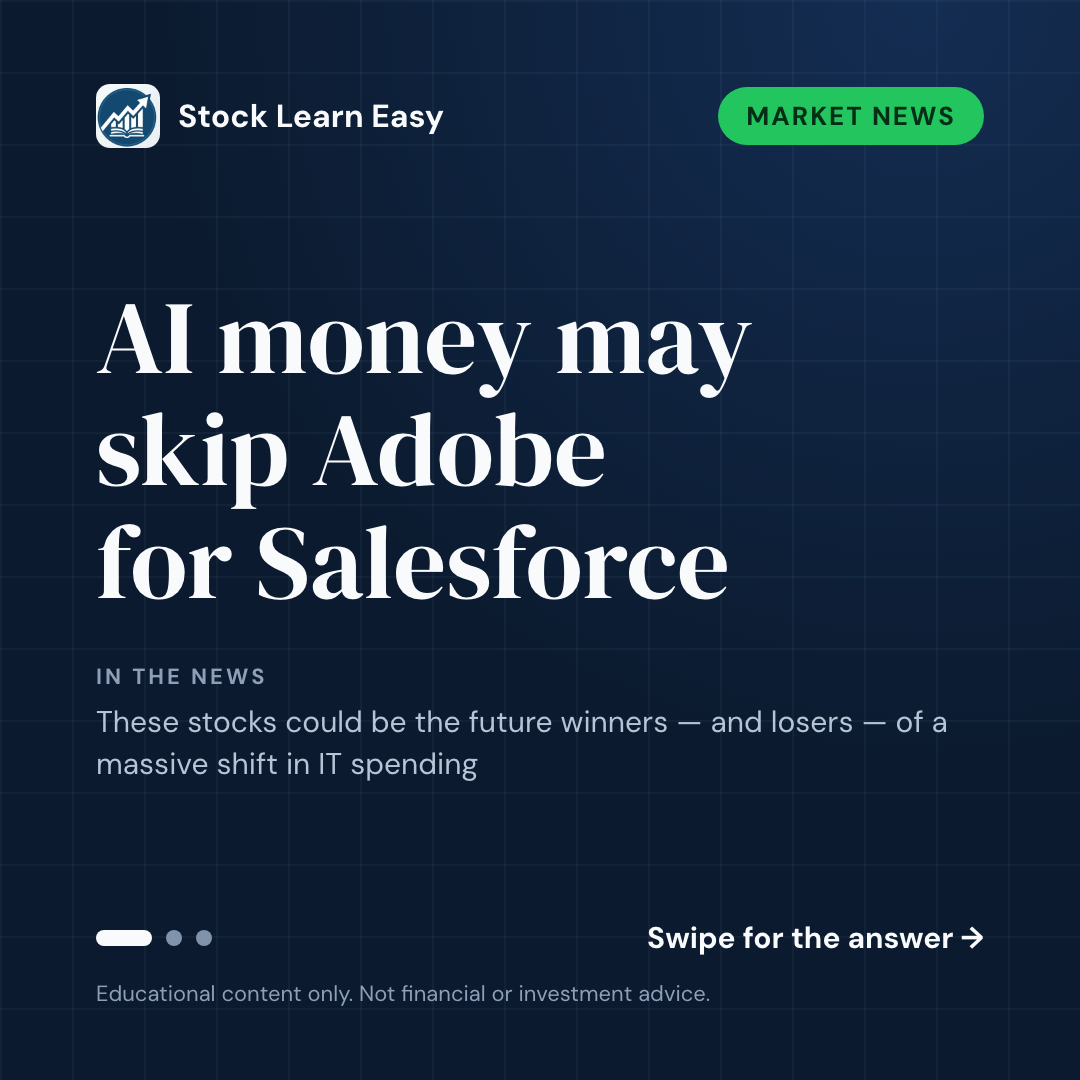
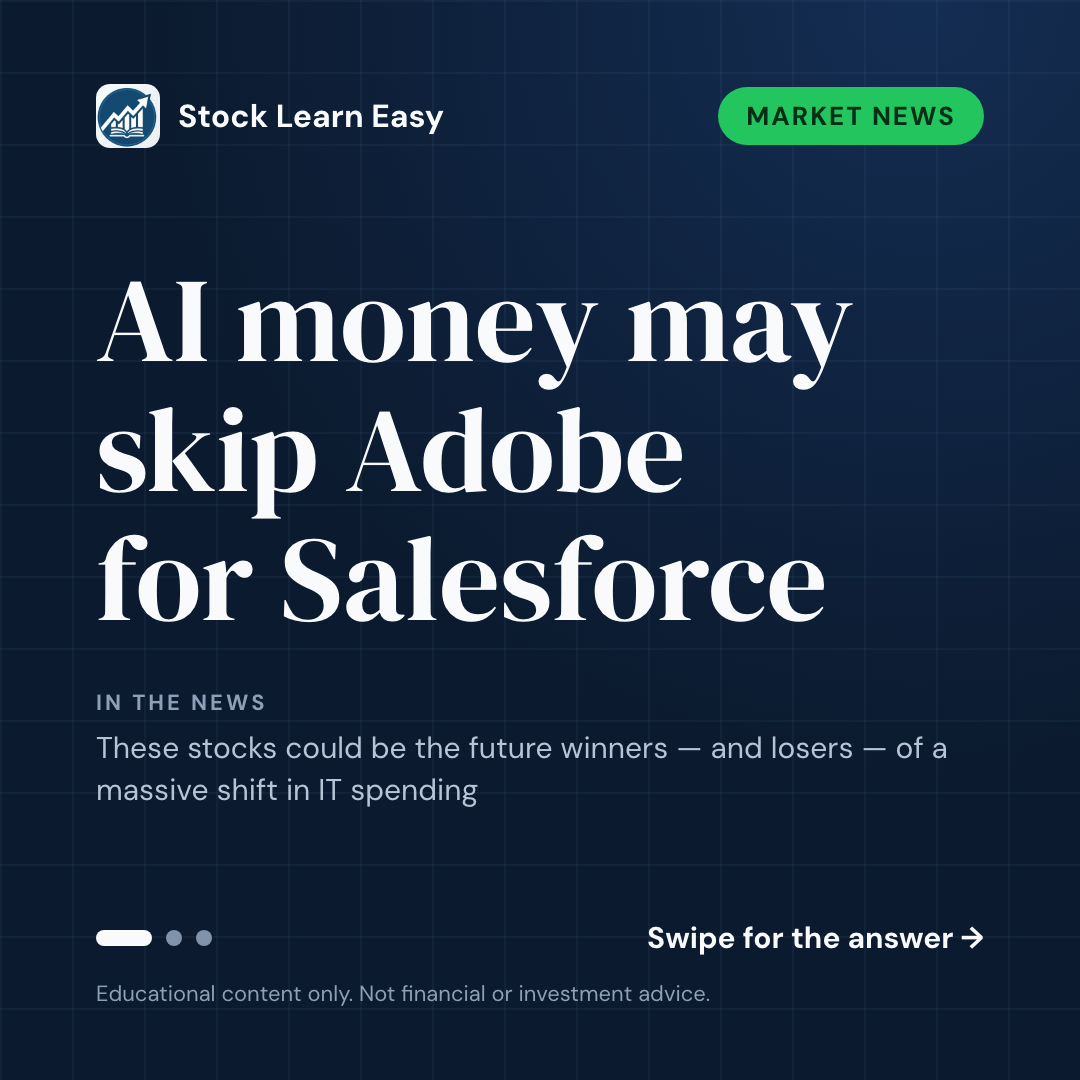
Items 42 and 43: bigger hook type, thumbnail-size gate on slide one with compact fallback; queue rebuilt

Changed region(s): [[0.0917, 0.2444, 0.7944, 0.5806], [0.0917, 0.6111, 0.7944, 0.7639], [0.825, 0.6417, 0.8861, 0.7028]]

diff --git a/generate.py b/generate.py
@@ -59,7 +59,7 @@ CHROME = "/Applications/Google Chrome.app/Contents/MacOS/Google Chrome"
 # this is what says which change the week was testing. Update it when the
 # generator's rules change, not when the code is merely refactored.
 BACKLOG_ITEMS = [6, 7, 15, 17, 21, 22, 23, 24, 25, 26, 27, 28, 29, 30, 31,
-                 33, 34, 35, 36, 37, 38, 16, 84, 95, 13, 14, 46]
+                 33, 34, 35, 36, 37, 38, 16, 84, 95, 13, 14, 46, 42, 43]
 
 # MarketWatch’s feeds mix in personal-advice columns ("The Moneyist",
 # written by Quentin Fottrell) that have nothing to do with markets.
@@ -891,7 +891,7 @@ def chart_body_html(chart, svg_width=888, svg_height=372, scale=1.0):
 
 
 def render_slide_html(kind, position, total, category, when_utc, copy,
-                      news=None, term=None, ticker=None, chart=None):
+                      news=None, term=None, ticker=None, chart=None, compact=False):
     """Render one carousel slide.
 
     Each slide has to earn its swipe. Before 28.9.2026 slide 2 reprinted the
@@ -901,10 +901,10 @@ def render_slide_html(kind, position, total, category, when_utc, copy,
     head = _card_head(category)
 
     if kind == "hook" and wants_plain_hook(when_utc):
-        hook_px = design.size_for(copy["hook"], [(40, 120), (58, 108), (72, 98), (999, 86)])
+        hook_px = design.size_for(copy["hook"], [(40, 124), (58, 112), (72, 100), (999, 92)])
         main = (
             '<div class="main" data-fit-box style="justify-content:center;">'
-            f'<div class="serif" data-fit="60" style="font-size:{hook_px}px;line-height:1.08;">'
+            f'<div class="serif" data-hook data-fit="60" style="font-size:{hook_px}px;line-height:1.08;">'
             f'{design.highlight_numbers(copy["hook"])}</div>'
             '</div>'
         )
@@ -916,19 +916,25 @@ def render_slide_html(kind, position, total, category, when_utc, copy,
     if kind == "hook":
         source = term[0] if category == "term" else news["title"]
         source_label = "TODAY'S TERM" if category == "term" else "IN THE NEWS"
-        hook_px = design.size_for(copy["hook"], [(40, 104), (58, 94), (72, 86), (999, 76)])
+        # Item 42, 13.10.2026: was 104/94/86/76. Most impressions of slide one
+        # are a thumbnail around 150px wide, where 76px type is 10px and the
+        # hook stops reading. The thumbnail gate below holds the floor.
+        hook_px = design.size_for(copy["hook"], [(40, 120), (58, 108), (72, 98), (999, 90)])
         ticker_html = (
             f'<span class="num" style="color:{design.TEXT};font-weight:700;margin-left:14px;">'
             f'${escape(ticker)}</span>' if ticker else ""
         )
         main = (
             '<div class="main" data-fit-box style="gap:44px;">'
-            f'<div class="serif" data-fit="56" style="font-size:{hook_px}px;line-height:1.08;">'
+            f'<div class="serif" data-hook data-fit="56" style="font-size:{hook_px}px;line-height:1.08;">'
             f'{design.highlight_numbers(copy["hook"])}</div>'
             '<div style="display:flex;flex-direction:column;gap:10px;">'
             f'<div class="eyebrow faint" style="font-size:22px;">{source_label}{ticker_html}</div>'
-            f'<div class="muted" style="font-size:30px;line-height:1.4;">{escape(source)}</div>'
-            '</div></div>'
+            # compact: the source headline is the first thing given up when
+            # the hook would otherwise be squeezed below thumbnail size.
+            + ('' if compact else
+               f'<div class="muted" style="font-size:30px;line-height:1.4;">{escape(source)}</div>')
+            + '</div></div>'
         )
         foot = _card_foot(position, total, "Swipe for the answer →")
     elif kind == "chart":
@@ -981,6 +987,68 @@ def render_slide_html(kind, position, total, category, when_utc, copy,
 
     return design.page(CARD_SIZE, CARD_SIZE, CARD_PADDING,
                        f'{head}{main}{foot}')
+
+# Item 43. Slide one is mostly seen as a thumbnail about 150px wide, so the
+# hook has to clear a type size at that scale, not at 1080. 12px there is
+# roughly the smallest size a serif headline still reads at a glance.
+THUMB_WIDTH = 150
+THUMB_MIN_HOOK_PX = 12.0
+_FINAL_PX = re.compile(r'data-hook[^>]*data-final-px="([\d.]+)"|data-final-px="([\d.]+)"[^>]*data-hook')
+
+
+def hook_thumb_px(html_path: Path):
+    """The hook's font size after the fit script has run, at thumbnail scale.
+
+    The fit script can shrink a long hook to its floor, so the size in the
+    Python tiers is not the size that ships; this reads the real one back out
+    of the settled DOM. None if it cannot be measured.
+    """
+    html_path = html_path.resolve()
+    out = subprocess.run(
+        [CHROME, "--headless", "--disable-gpu", "--virtual-time-budget=5000",
+         "--window-size=1080,1080", "--dump-dom", f"file://{html_path}"],
+        capture_output=True, text=True, timeout=30,
+    ).stdout
+    m = _FINAL_PX.search(out)
+    if not m:
+        return None
+    return round(float(m.group(1) or m.group(2)) * THUMB_WIDTH / CARD_SIZE, 1)
+
+
+def render_slides(out_dir: Path, plan, category, slot, copy,
+                  news=None, term=None, ticker=None, chart=None):
+    """Render every slide of a slot. Returns the hook's thumbnail size in px.
+
+    The hook slide is gated (item 43): if the hook lands under
+    THUMB_MIN_HOOK_PX at thumbnail scale it is re-rendered without the source
+    headline, which hands its space to the hook. An 8-word hook that still
+    misses after that ships with a warning rather than costing the slot.
+    """
+    thumb_px = None
+    for position, kind in enumerate(plan, start=1):
+        html_path = out_dir / f"card_{position}.html"
+
+        def write(compact=False):
+            html_path.write_text(
+                render_slide_html(kind, position, len(plan), category, slot, copy,
+                                  news=news, term=term, ticker=ticker, chart=chart,
+                                  compact=compact),
+                encoding="utf-8",
+            )
+
+        write()
+        if kind == "hook":
+            thumb_px = hook_thumb_px(html_path)
+            if thumb_px is not None and thumb_px < THUMB_MIN_HOOK_PX:
+                write(compact=True)
+                thumb_px = hook_thumb_px(html_path)
+                if thumb_px is not None and thumb_px < THUMB_MIN_HOOK_PX:
+                    print(f"WARNING: hook is {thumb_px}px at thumbnail size, "
+                          f"under {THUMB_MIN_HOOK_PX}: {copy['hook']!r}", file=sys.stderr)
+        render_png(html_path, out_dir / f"post_{position}.png")
+        html_path.unlink()
+    return thumb_px
+
 
 def render_png(html_path: Path, png_path: Path):
     """Render html_path to png_path via headless Chrome, then verify the
@@ -1192,15 +1260,8 @@ def main():
             chart = resolve_chart(category, news=news, ticker=ticker, term=term)
             plan = build_slide_plan(chart, slot)
 
-            for position, kind in enumerate(plan, start=1):
-                html_path = out_dir / f"card_{position}.html"
-                html_path.write_text(
-                    render_slide_html(kind, position, len(plan), category, slot, copy,
-                                      news=news, term=term, ticker=ticker, chart=chart),
-                    encoding="utf-8",
-                )
-                render_png(html_path, out_dir / f"post_{position}.png")
-                html_path.unlink()
+            thumb_px = render_slides(out_dir, plan, category, slot, copy,
+                                     news=news, term=term, ticker=ticker, chart=chart)
 
             (out_dir / "caption.txt").write_text(
                 make_caption(category, copy, news=news, term=term, ticker=ticker, slot=slot), encoding="utf-8"
@@ -1219,6 +1280,7 @@ def main():
                 # rule or the luck, and no way to reproduce it.
                 "backlog_items": BACKLOG_ITEMS,
                 "variant": post_variant(slot, chart),
+                "thumb_hook_px": thumb_px,
                 "copy_prompt": copy_prompt,
             }
             (out_dir / "source.json").write_text(
@@ -1314,15 +1376,8 @@ def rebuild_slot(slot_dir: Path):
 
     for old in slot_dir.glob("post_*.png"):
         old.unlink()
-    for position, kind in enumerate(plan, start=1):
-        html_path = slot_dir / f"card_{position}.html"
-        html_path.write_text(
-            render_slide_html(kind, position, len(plan), category, slot, copy,
-                              news=news, term=term, ticker=ticker, chart=chart),
-            encoding="utf-8",
-        )
-        render_png(html_path, slot_dir / f"post_{position}.png")
-        html_path.unlink()
+    thumb_px = render_slides(slot_dir, plan, category, slot, copy,
+                             news=news, term=term, ticker=ticker, chart=chart)
 
     # The caption is a pure function of the stored copy, so rebuild it too;
     # otherwise a caption change only reaches posts queued after it.
@@ -1333,6 +1388,7 @@ def rebuild_slot(slot_dir: Path):
     data["slides"] = plan
     data["chart"] = chart_summary(chart)
     data["variant"] = post_variant(slot, chart)
+    data["thumb_hook_px"] = thumb_px
     (slot_dir / "source.json").write_text(
         json.dumps(data, ensure_ascii=False, indent=2), encoding="utf-8"
     )

diff --git a/design.py b/design.py
@@ -140,6 +140,8 @@ FIT_JS = """
              && size > min && guard++ < 80) {
         size -= 2; el.style.fontSize = size + 'px';
       }
+      // Read back by the thumbnail gate in generate.py (item 43).
+      el.setAttribute('data-final-px', size);
     });
   }
   if (document.fonts && document.fonts.ready) { document.fonts.ready.then(fit); }

diff --git a/metrics/winners.md b/metrics/winners.md
@@ -1,22 +1,24 @@
 # Above-median posts (backlog item 19)
 
-Generated by winners.py from the 2026-10-12..2026-10-12 snapshots. 42 posts, median reach 2.
+Generated by winners.py from the 2026-10-13..2026-10-13 snapshots. 50 posts, median reach 2.
 
 Copy the structure, never the topic. A shape with fewer than 10 posts is an anecdote (item 86).
 
 ## Median reach by shape
 
 - episode reel: median 16.5 over 4 posts (too few to conclude)
-- news reel: median 3 over 9 posts (too few to conclude)
-- carousel: median 2 over 29 posts
+- news reel: median 4 over 12 posts
+- carousel: median 2 over 34 posts
 
 ## Above the median
 
 - 2026-10-04T1545 reach 104, shares 0, saves 0: episode reel, 20.5s, volatility, question hook. "Why does the price jump around so much?"
+- 2026-10-10T1200 reach 53, shares 0, saves 0: news reel, 26.38s, news. "Your index fund rides on seven companies"
 - 2026-10-04T0940 reach 25, shares 0, saves 0: episode reel, 20.5s, bull-bear, question hook. "Why a bull, and why a bear?"
 - 2026-10-04T1200 reach 12, shares 0, saves 0: news reel, 26.75s, macro, question hook. "Why do high rates make retirement paychecks bigger?"
 - 2026-10-03T0930 reach 8, shares 0, saves 0: episode reel, 20.5s, correction, question hook. "Ten percent, or twenty?"
 - 2026-10-05T1200 reach 7, shares 0, saves 0: news reel, 28.65s, macro. "Last time this mix hit, stocks nearly halved"
+- 2026-10-09T1200 reach 7, shares 0, saves 0: news reel, 20.62s, term, question hook. "Is that big price jump real or noise?"
 - 2026-09-30T1200 reach 5, shares 0, saves 0: news reel, 24.61s, movers. "📉📈 Market Movers"
 - 2026-10-02T1200 reach 5, shares 0, saves 0: news reel, 29.76s, news. "📰 Today's Market News"
 - 2026-10-05T1115 reach 4, shares 0, saves 0: episode reel, 20.5s, compound. "Slow for years. Then fast."
